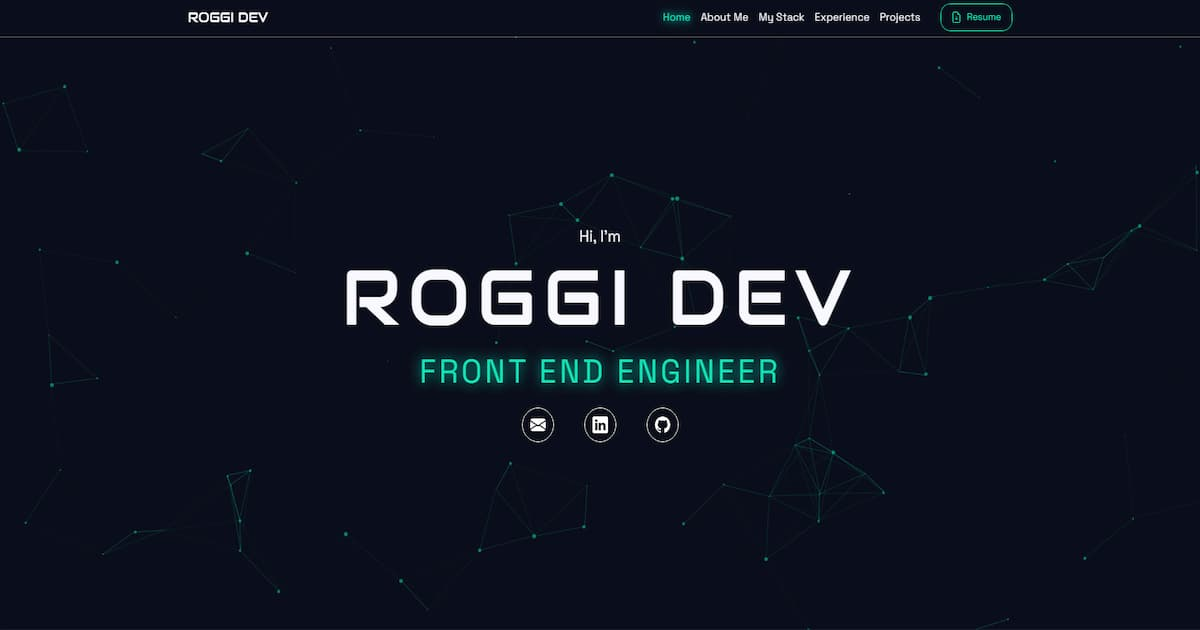
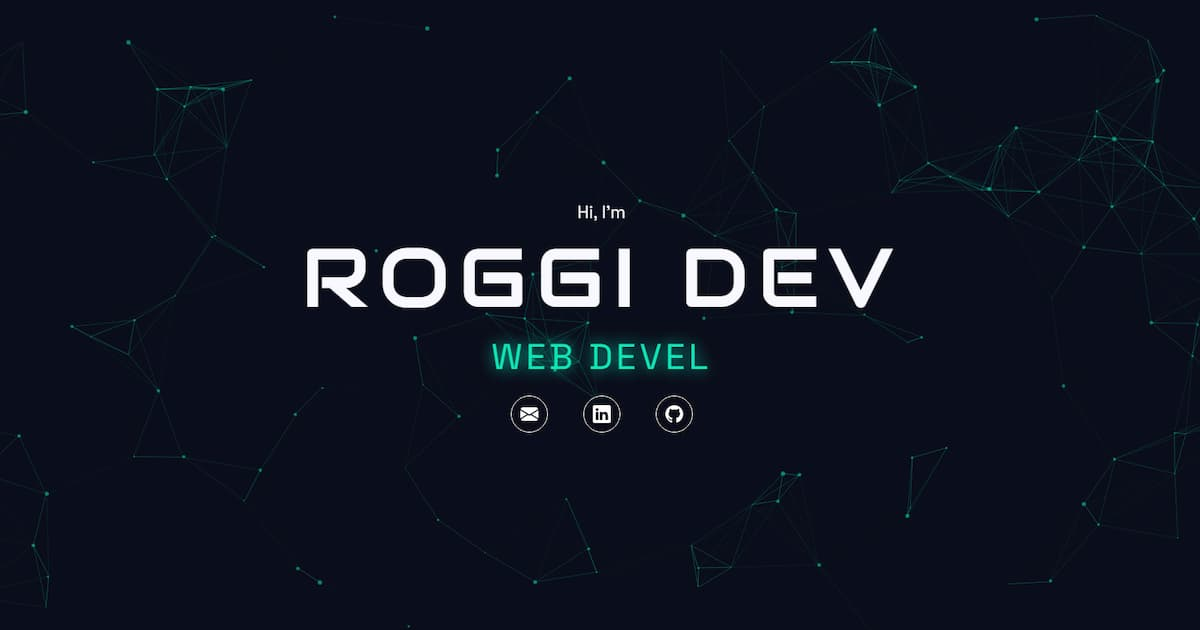
Fix images paths and update resume file

diff --git a/index.html b/index.html
@@ -9,7 +9,7 @@
     <!-- SEO -->
     <meta
       name="description"
-      content="Front End Engineer & Creative Developer focused on building modern and responsive user interfaces."
+      content="Front End Engineer & Creative Developer focused on building modern, interactive, and high-performance web solutions."
     />
     <meta name="keywords" content="Front End, Developer, Engineer" />
     <meta name="author" content="Yael Rodríguez Gómez" />
@@ -22,7 +22,7 @@
     />
     <meta
       property="og:description"
-      content="Front End Engineer & Creative Developer focused on building modern and responsive user interfaces."
+      content="Front End Engineer & Creative Developer focused on building modern, interactive, and high-performance web solutions."
     />
     <meta
       property="og:image"
@@ -40,7 +40,7 @@
     />
     <meta
       name="twitter:description"
-      content="Front End Engineer & Creative Developer focused on building modern and responsive user interfaces."
+      content="Front End Engineer & Creative Developer focused on building modern, interactive, and high-performance web solutions."
     />
     <meta
       name="twitter:image"
@@ -48,7 +48,7 @@
     />
 
     <!-- Icons -->
-    <link rel="icon" href="/favicon.ico" sizes="any" />
+    <link rel="icon" href="/media/images/favicon.ico" sizes="any" />
 
     <!-- Libraries -->
     <link

diff --git a/js/animation.js b/js/animation.js
@@ -1,9 +1,7 @@
 document.addEventListener("DOMContentLoaded", (event) => {
   gsap.registerPlugin(ScrollTrigger);
 
-  const lenis = new Lenis({
-    duration: 2,
-  });
+  const lenis = new Lenis();
 
   lenis.on("scroll", ScrollTrigger.update);
 

diff --git a/components/Navbar.js b/components/Navbar.js
@@ -86,7 +86,7 @@ export class CustomNavbar extends LitElement {
           <div class="c-nav-buttons">
             <!-- Resume -->
             <a
-              href="/media/documents/Yael Rodríguez - React Developer - Resume.pdf"
+              href="/media/documents/YaelRodríguez-FrontEndEngineer-Resume.pdf"
               target="_blank"
               class="c-resume-btn"
             >